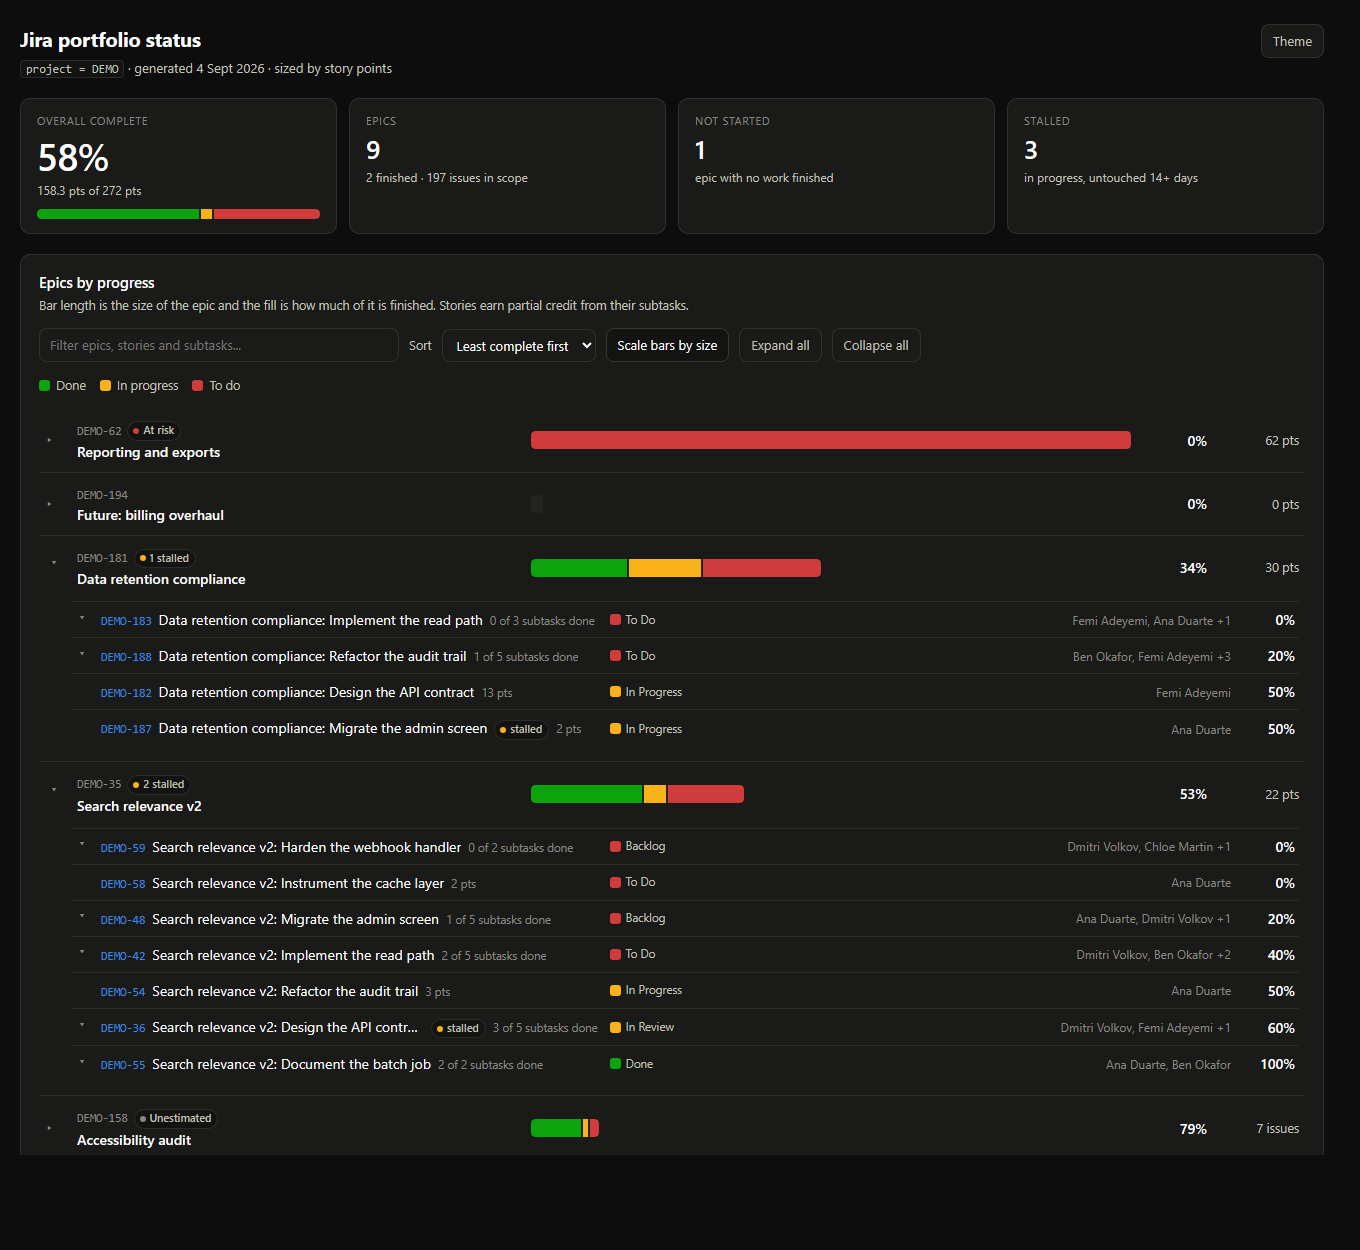
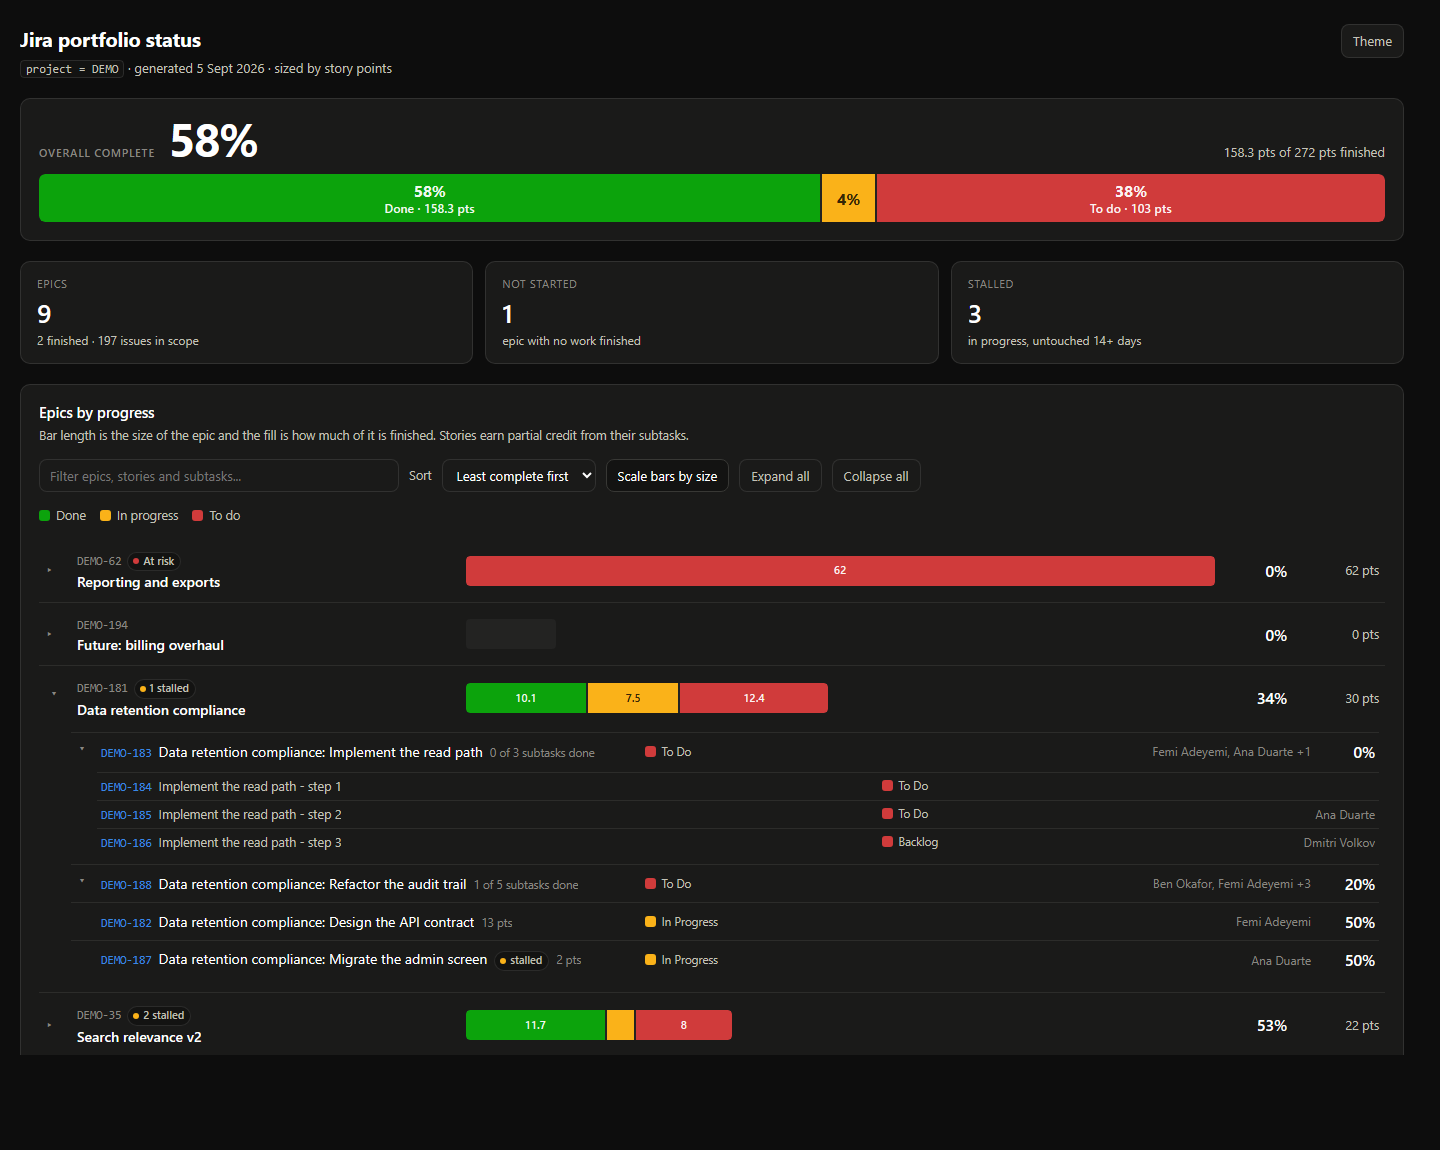
Show progress bars more visible

diff --git a/src/JiraViz.Core/Assets/report.template.html b/src/JiraViz.Core/Assets/report.template.html
@@ -129,6 +129,44 @@ header.top h1 { margin: 0 0 4px; font-size: 20px; font-weight: 650; letter-spaci
 .btn:hover { color: var(--text-primary); border-color: var(--baseline); }
 .btn[aria-pressed="true"] { color: var(--text-primary); border-color: var(--baseline); background: var(--surface-sunken); }
 
+
+/* ---------- overall progress headline ----------
+   The widest block on the page and the first thing read, but aligned with the cards below it
+   rather than bleeding to the window edges. */
+.overall {
+  background: var(--surface);
+  border: 1px solid var(--border);
+  border-radius: var(--radius);
+  padding: 16px 18px 18px;
+  margin-bottom: 20px;
+}
+.overall-head {
+  display: flex; align-items: baseline; gap: 14px; flex-wrap: wrap; margin-bottom: 13px;
+}
+.overall-label {
+  font-size: 11px; text-transform: uppercase; letter-spacing: 0.07em;
+  color: var(--text-muted); font-weight: 600;
+}
+.overall-pct {
+  font-size: 46px; font-weight: 660; letter-spacing: -0.03em; line-height: 1;
+  font-variant-numeric: tabular-nums;
+}
+.overall-meta {
+  margin-left: auto; text-align: right; color: var(--text-secondary);
+  font-size: 13px; font-variant-numeric: tabular-nums;
+}
+.overall .track, .overall .bar { border-radius: 6px; }
+.overall .seg .lab {
+  flex-direction: column; gap: 1px; padding: 0 6px;
+  font-size: 12px; font-weight: 500; line-height: 1.25;
+  overflow: hidden; white-space: nowrap;
+}
+.overall .seg .lab b { font-size: 15.5px; font-weight: 680; }
+
+@media (max-width: 620px) {
+  .overall-pct { font-size: 36px; }
+  .overall-meta { margin-left: 0; text-align: left; width: 100%; }
+}
 /* ---------- KPI strip ---------- */
 
 .kpis {
@@ -145,11 +183,6 @@ header.top h1 { margin: 0 0 4px; font-size: 20px; font-weight: 650; letter-spaci
 }
 .kpi .value { font-size: 26px; font-weight: 640; line-height: 1.1; letter-spacing: -0.02em; }
 .kpi .note { font-size: 12px; color: var(--text-secondary); margin-top: 4px; }
-.kpi.hero .value { font-size: 38px; }
-
-/* The hero tile carries a miniature of the same stacked bar used below, so the
-   headline number and the detail rows are visibly the same measurement. */
-.kpi.hero .minibar { margin-top: 10px; }
 
 /* ---------- cards & controls ---------- */
 
@@ -200,7 +233,6 @@ header.top h1 { margin: 0 0 4px; font-size: 20px; font-weight: 650; letter-spaci
 .bar .seg:first-child { border-top-left-radius: var(--mark-radius); border-bottom-left-radius: var(--mark-radius); }
 .bar .seg:last-child { border-top-right-radius: var(--mark-radius); border-bottom-right-radius: var(--mark-radius); }
 
-.minibar .track { height: 10px; }
 
 /* ---------- epic rows ---------- */
 
@@ -209,10 +241,20 @@ header.top h1 { margin: 0 0 4px; font-size: 20px; font-weight: 650; letter-spaci
 
 .epic-head {
   display: grid; align-items: center; gap: 14px;
-  grid-template-columns: 18px minmax(200px, 2.2fr) minmax(140px, 3fr) 62px 78px;
+  grid-template-columns: 18px minmax(190px, 1.5fr) minmax(260px, 3fr) 58px 78px;
   padding: 10px 6px; cursor: pointer; border: 0; width: 100%;
   background: none; color: inherit; font: inherit; text-align: left;
 }
+
+/* Values printed inside a segment, shown only where there is room for them. */
+.seg { position: relative; }
+.seg .lab {
+  position: absolute; inset: 0; display: flex; align-items: center; justify-content: center;
+  font-size: 11px; font-weight: 600; letter-spacing: 0.01em;
+  font-variant-numeric: tabular-nums; pointer-events: none;
+}
+.seg.done .lab, .seg.todo .lab { color: rgba(255, 255, 255, 0.95); }
+.seg.inprogress .lab { color: rgba(0, 0, 0, 0.8); }
 .epic-head:hover { background: var(--surface-sunken); }
 .epic-head:focus-visible { outline: 2px solid var(--link); outline-offset: -2px; }
 
@@ -229,7 +271,7 @@ header.top h1 { margin: 0 0 4px; font-size: 20px; font-weight: 650; letter-spaci
   overflow: hidden; text-overflow: ellipsis;
 }
 
-.pct { font-weight: 620; text-align: right; font-variant-numeric: tabular-nums; }
+.pct { font-weight: 620; font-size: 15.5px; text-align: right; font-variant-numeric: tabular-nums; }
 .size { color: var(--text-secondary); text-align: right; font-size: 12.5px; font-variant-numeric: tabular-nums; }
 
 /* The bar cell is scaled by epic size when that mode is on, so a large untouched
@@ -366,6 +408,9 @@ footer.foot { color: var(--text-muted); font-size: 12px; text-align: center; mar
     <button class="btn" id="theme-toggle" type="button" title="Switch between light and dark">Theme</button>
   </header>
 
+  <!-- The headline: the widest block on the page, aligned with the cards below it. -->
+  <section class="overall" id="overall"></section>
+
   <section class="kpis" id="kpis"></section>
 
   <section class="card">
@@ -497,23 +542,41 @@ footer.foot { color: var(--text-muted); font-size: 12px; text-align: center; mar
     return Math.floor((Date.now() - d.getTime()) / 86400000);
   }
 
-  // ---- stacked bar ----------------------------------------------------------
+  // ---- progress bars ---------------------------------------------------------
+
+  var maxSize = DATA.epics.reduce(function (acc, e) { return Math.max(acc, e.size); }, 0) || 1;
+
+  // The bar is the main object on the page, so it is drawn tall enough to carry values inside it.
+  var EPIC_BAR_HEIGHT = 30;
+
+  // Bar length is proportional to the epic's workload. Below this floor a bar is too short to
+  // read its own split, so the smallest epics stop shrinking; everything above stays linear.
+  var MIN_BAR_WIDTH_PCT = 12;
 
   // Segments are emitted only when non-zero, so the 2px gaps never appear as
   // stray slivers on an epic that is entirely in one bucket.
-  function barHtml(parts, total) {
-    if (!(total > 0)) return '<div class="track"></div>';
+  function barHtml(parts, total, height) {
+    if (!(total > 0)) return '<div class="track" style="height:' + (height || 20) + 'px"></div>';
 
     var segments = "";
     BUCKETS.forEach(function (bucket) {
       var value = parts[bucket] || 0;
       if (value <= 0) return;
+
       var share = (value / total) * 100;
+
+      // A value is printed inside a segment only where it genuinely fits: a narrow sliver
+      // or a shallow bar would clip it, which reads worse than no label at all.
+      var label = (share > 12 && height >= 20)
+        ? '<span class="lab">' + num(value) + "</span>"
+        : "";
+
       segments += '<div class="seg ' + BUCKET_CLASS[bucket] + '" style="width:' +
-        share.toFixed(4) + '%"></div>';
+        share.toFixed(4) + '%">' + label + "</div>";
     });
 
-    return '<div class="track"><div class="bar">' + segments + "</div></div>";
+    return '<div class="track" style="height:' + height + 'px"><div class="bar">' +
+      segments + "</div></div>";
   }
 
   // ---- header & KPIs --------------------------------------------------------
@@ -528,14 +591,46 @@ footer.foot { color: var(--text-muted); font-size: 12px; text-align: center; mar
     ? "No story points were found, so every issue counts as one. Bar length is the number of issues in the epic."
     : "Bar length is the size of the epic and the fill is how much of it is finished. Stories earn partial credit from their subtasks.";
 
-  var kpiHtml = "";
+  // ---- overall headline -------------------------------------------------------
 
-  kpiHtml += '<div class="kpi hero"><div class="label">Overall complete</div>' +
-    '<div class="value">' + pct(t.completion) + "</div>" +
-    '<div class="note">' + size(t.doneSize) + " of " + size(t.size) + "</div>" +
-    '<div class="minibar">' + barHtml(
-      { Done: t.doneSize, InProgress: t.inProgressSize, NotStarted: t.notStartedSize }, t.size) +
-    "</div></div>";
+  // Its own renderer rather than the shared bar: at this size each segment can carry its own
+  // share and value, which is the whole split of the project in one glance.
+  function overallBarHtml() {
+    var parts = { Done: t.doneSize, InProgress: t.inProgressSize, NotStarted: t.notStartedSize };
+    var segments = "";
+
+    BUCKETS.forEach(function (bucket) {
+      var value = parts[bucket] || 0;
+      if (value <= 0) return;
+
+      var share = (value / t.size) * 100;
+
+      // Wide segments carry their name and value; narrow ones keep just the share, so a thin
+      // sliver is still explained rather than left as an unlabelled band of colour.
+      var label = "";
+      if (share > 9) {
+        label = '<span class="lab"><b>' + Math.round(share) + "%</b>" +
+          "<span>" + BUCKET_LABEL[bucket] + " &middot; " + size(value) + "</span></span>";
+      } else if (share > 2.5) {
+        label = '<span class="lab"><b>' + Math.round(share) + "%</b></span>";
+      }
+
+      segments += '<div class="seg ' + BUCKET_CLASS[bucket] + '" style="width:' +
+        share.toFixed(3) + '%">' + label + "</div>";
+    });
+
+    return '<div class="track" style="height:48px"><div class="bar">' + segments + "</div></div>";
+  }
+
+  document.getElementById("overall").innerHTML =
+    '<div class="overall-head">' +
+      '<span class="overall-label">Overall complete</span>' +
+      '<span class="overall-pct">' + pct(t.completion) + "</span>" +
+      '<span class="overall-meta">' + size(t.doneSize) + " of " + size(t.size) + " finished</span>" +
+    "</div>" +
+    (t.size > 0 ? overallBarHtml() : '<div class="track" style="height:48px"></div>');
+
+  var kpiHtml = "";
 
   kpiHtml += '<div class="kpi"><div class="label">Epics</div>' +
     '<div class="value">' + t.epicCount + "</div>" +
@@ -553,9 +648,8 @@ footer.foot { color: var(--text-muted); font-size: 12px; text-align: center; mar
 
   // ---- epic list ------------------------------------------------------------
 
-  var maxSize = DATA.epics.reduce(function (acc, e) { return Math.max(acc, e.size); }, 0) || 1;
-  var scaleBars = true;
   var epicsEl = document.getElementById("epics");
+  var scaleBars = true;
 
   function badgesHtml(epic) {
     var out = "";
@@ -638,7 +732,10 @@ footer.foot { color: var(--text-muted); font-size: 12px; text-align: center; mar
   }
 
   function epicHtml(epic, index) {
-    var widthPct = scaleBars ? Math.max((epic.size / maxSize) * 100, 2) : 100;
+    // Only the baseline treatment spends bar length on epic size; the others are full width.
+    var widthPct = scaleBars
+      ? Math.max((epic.size / maxSize) * 100, MIN_BAR_WIDTH_PCT)
+      : 100;
     var parts = { Done: epic.doneSize, InProgress: epic.inProgressSize, NotStarted: epic.notStartedSize };
 
     return '<div class="epic" data-epic="' + index + '">' +
@@ -651,7 +748,7 @@ footer.foot { color: var(--text-muted); font-size: 12px; text-align: center; mar
         "</span>" +
         '<span class="barcell" data-tip="' + index + '">' +
           '<span class="scaler" style="display:block;width:' + widthPct.toFixed(2) + '%">' +
-            barHtml(parts, epic.size) +
+            barHtml(parts, epic.size, EPIC_BAR_HEIGHT) +
           "</span>" +
         "</span>" +
         '<span class="pct">' + pct(epic.completion) + "</span>" +

diff --git a/src/JiraViz.Cli/Program.cs b/src/JiraViz.Cli/Program.cs
@@ -3,6 +3,7 @@ using JiraViz.Cli;
 using JiraViz.Core;
 using JiraViz.Core.Analysis;
 using JiraViz.Core.Jira;
+using JiraViz.Core.Model;
 using JiraViz.Core.Reporting;
 
 if (args.Contains("--help") || args.Contains("-h") || args.Length == 0)
@@ -50,6 +51,7 @@ try
 
     var (groups, warnings) = new HierarchyBuilder(options.EpicIssueTypeName).Build(issues);
     var bucketer = new StatusBucketer(options.StatusOverrides);
+
     var model = new ProgressCalculator(bucketer, options.StalledDays)
         .Build(groups, warnings, options.BaseUrl, options.Jql, DateTimeOffset.Now);
 
@@ -115,3 +117,4 @@ internal sealed class SynchronousProgress<T>(Action<T> handler) : IProgress<T>
 {
     public void Report(T value) => handler(value);
 }
+

diff --git a/src/JiraViz.Core/Model/ReportModel.cs b/src/JiraViz.Core/Model/ReportModel.cs
@@ -8,6 +8,7 @@ public sealed class ReportModel
     public required string Jql { get; init; }
     public required int StalledDays { get; init; }
 
+
     /// <summary>True when no story points were found anywhere, so sizing is count-based throughout.</summary>
     public required bool CountBasedSizing { get; init; }
 

diff --git a/README.md b/README.md
@@ -8,11 +8,14 @@ underway, and what has not been started at all.
 
 ## What it shows
 
-- **A KPI strip** &mdash; overall completion, epic count, epics with no work finished, stalled issues.
-- **Epic progress bars** &mdash; one row per epic, stacked Done / In progress / To do in
-  green / amber / red. Bar length is the *size* of the epic, so a large untouched epic is the
-  longest, reddest bar on the page. Rows expand in place to their stories, and stories to their
-  subtasks.
+- **A full-width headline** &mdash; overall completion as a large bar spanning the whole window,
+  each segment labelled with its share and its points.
+- **A KPI strip** &mdash; epic count, epics with no work finished, stalled issues.
+- **Epic progress bars** &mdash; one row per epic, 30px tall, stacked Done / In progress / To do
+  in green / amber / red. Bar length is proportional to the epic workload, so a large untouched
+  epic is the longest, reddest bar on the page; bars below 12 per cent of the widest are floored
+  so their split stays readable. Segment values are printed inside the bar where they fit. Rows
+  expand in place to their stories, and stories to their subtasks.
 - **Badges** &mdash; *At risk*, *Not started*, *Stalled*, *Unestimated*, *Complete*.
 - **People** &mdash; a story row lists everyone on it: its own assignee plus every subtask
   assignee, de-duplicated, with the full list on hover.
